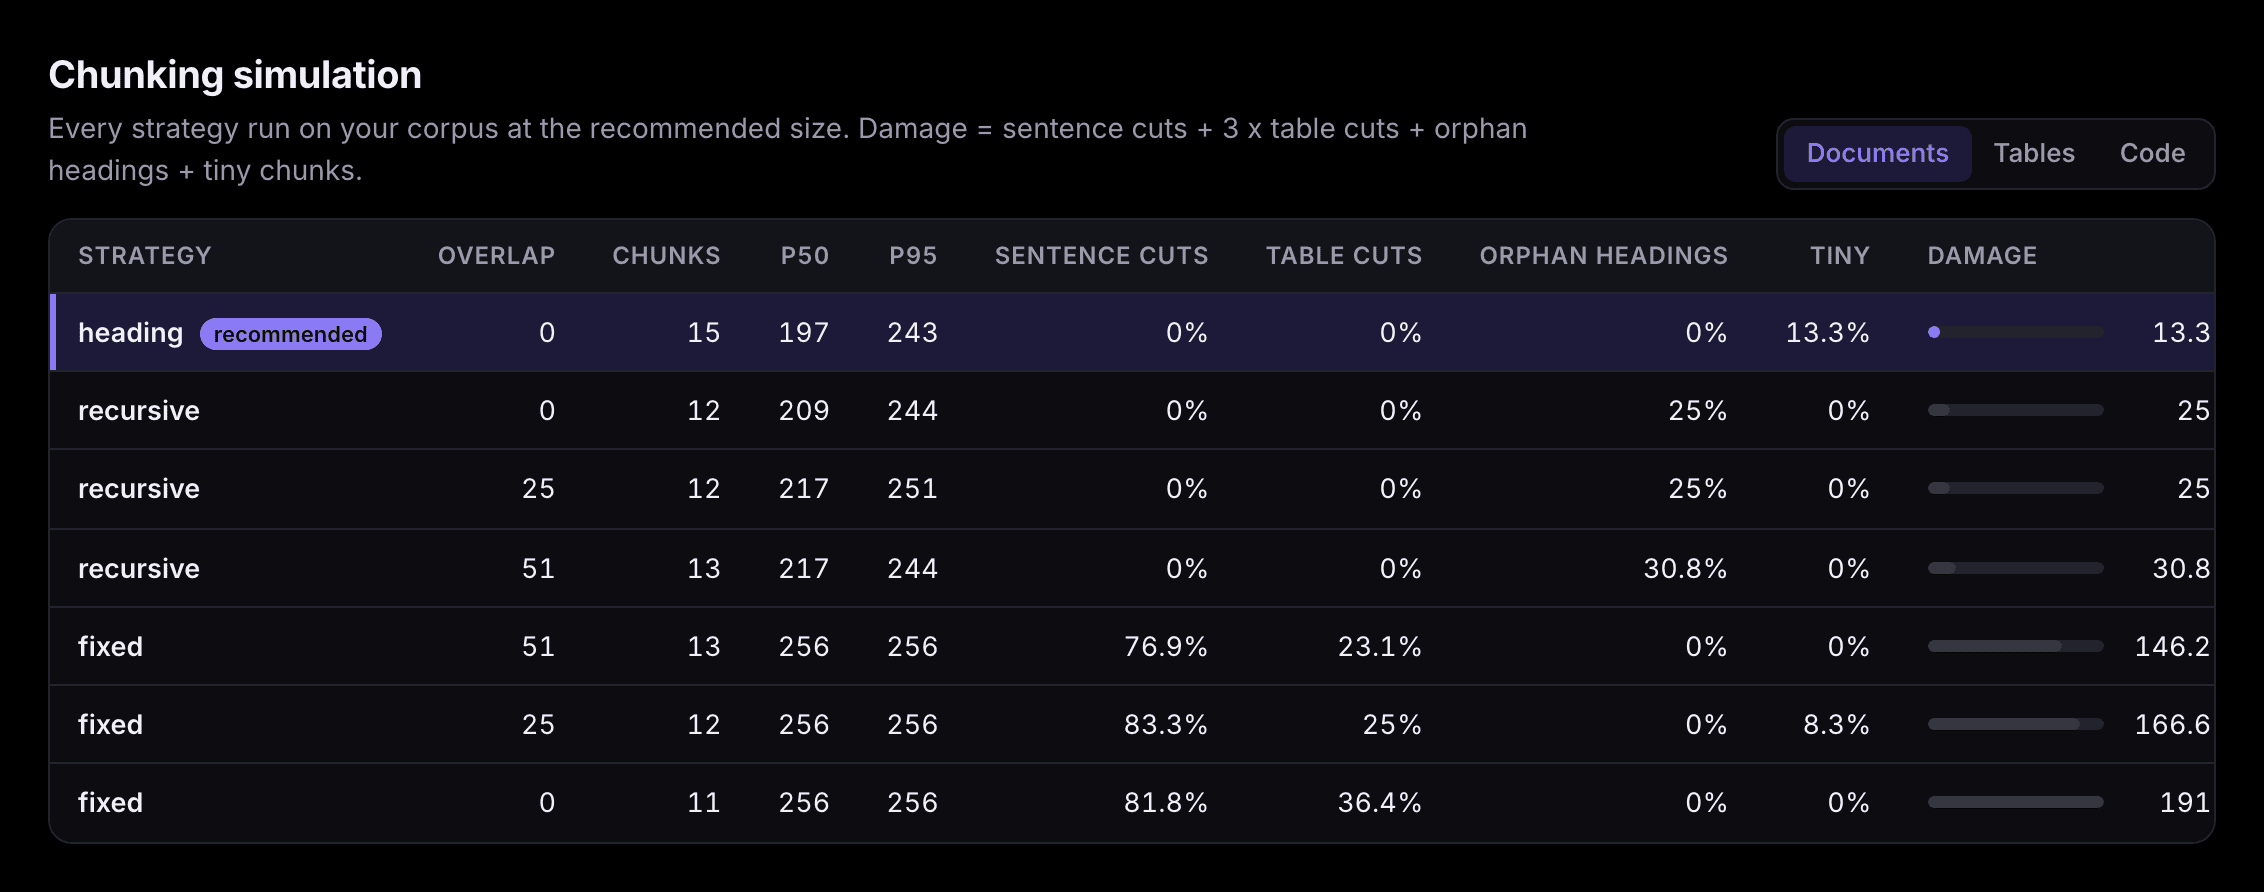
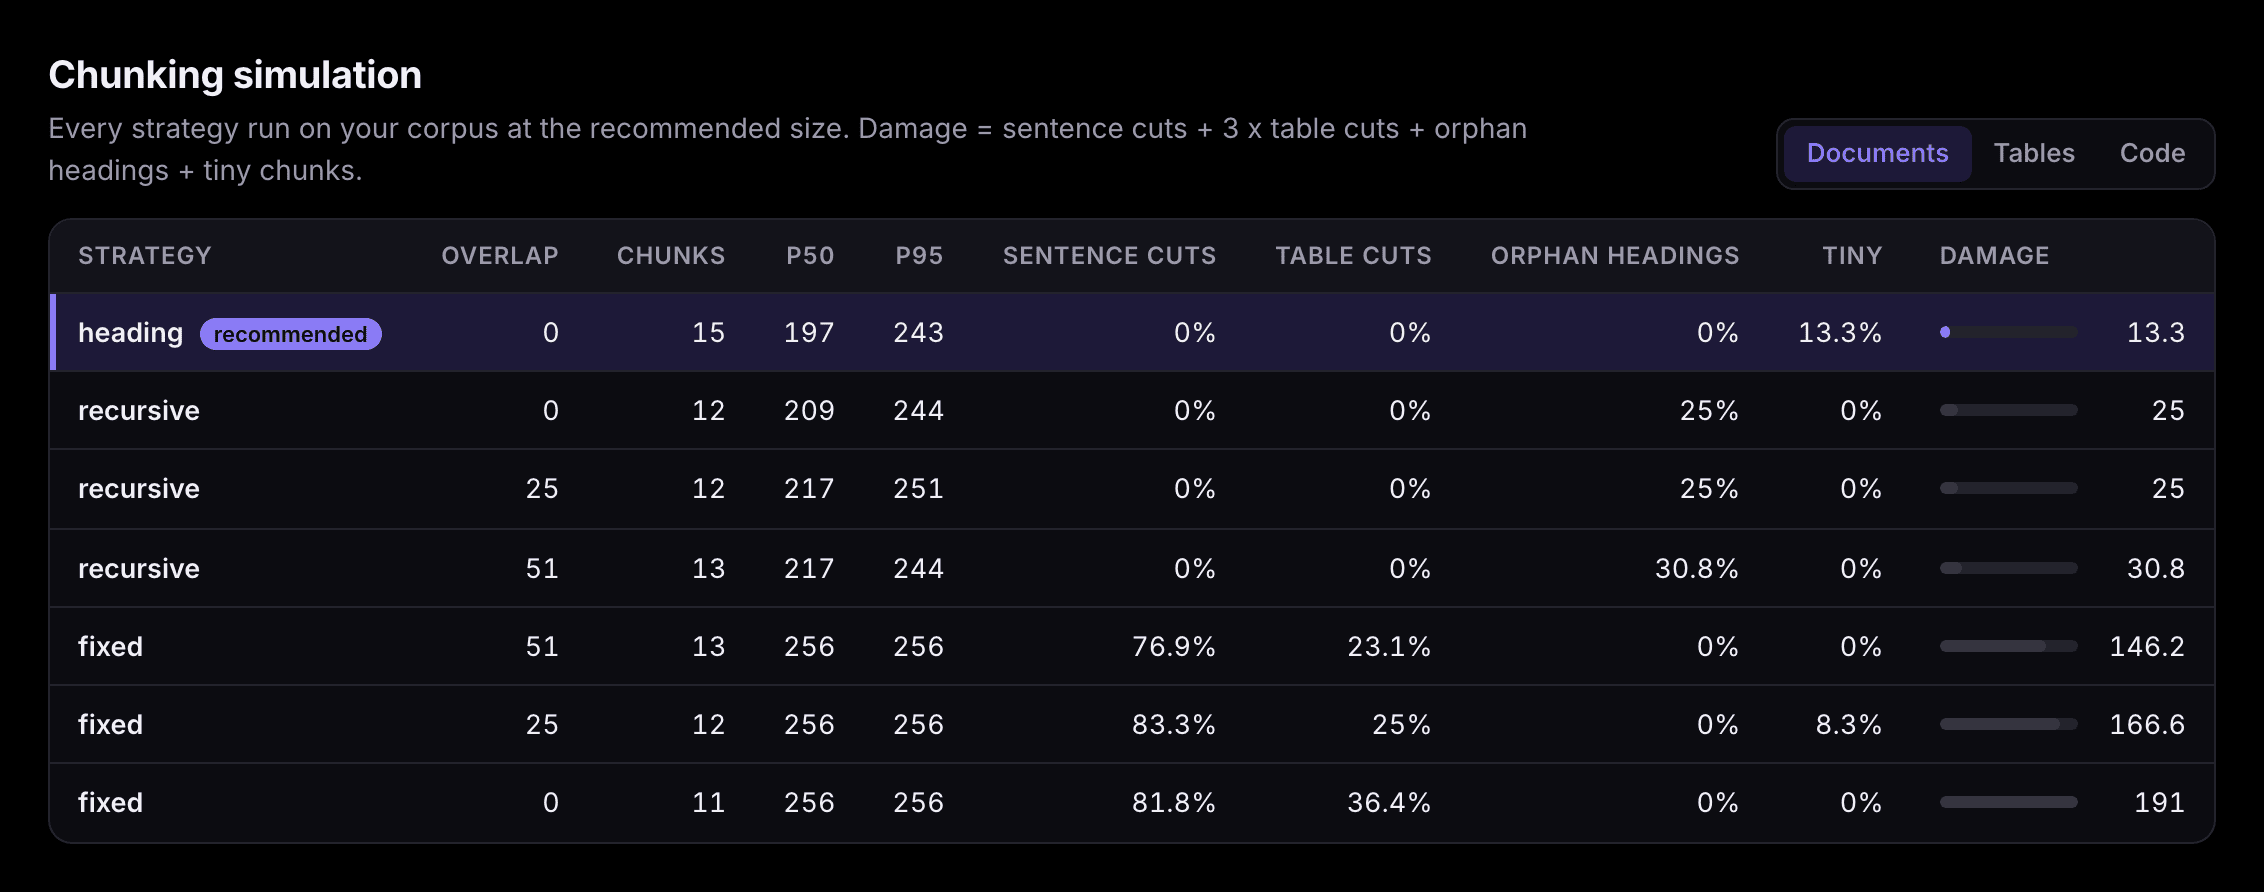
Fix table cell layout and let headers wrap in the web report

diff --git a/web/src/components/Report.tsx b/web/src/components/Report.tsx
@@ -239,9 +239,11 @@ function Documents({ report }: { report: ReportData }) {
           <tbody>
             {report.documents.map((d) => (
               <tr key={d.path}>
-                <td className="path">
-                  <FileText size={14} />
-                  {d.path}
+                <td>
+                  <span className="path">
+                    <FileText size={14} />
+                    {d.path}
+                  </span>
                 </td>
                 <td>
                   <span className={`kind${d.kind === "pdf_scanned" || d.error ? " warn" : ""}`}>{d.kind}</span>

diff --git a/web/src/styles.css b/web/src/styles.css
@@ -491,6 +491,8 @@ td {
 }
 
 th {
+  white-space: normal;
+  vertical-align: bottom;
   font-size: 12px;
   font-weight: 600;
   color: var(--muted);
@@ -530,7 +532,7 @@ tr.picked td:first-child {
 }
 
 .damage-col {
-  min-width: 170px;
+  min-width: 150px;
 }
 
 .damage {
@@ -563,7 +565,7 @@ tr:not(.picked) .bar span {
 }
 
 .path {
-  display: flex;
+  display: inline-flex;
   align-items: center;
   gap: 8px;
   font-weight: 500;
